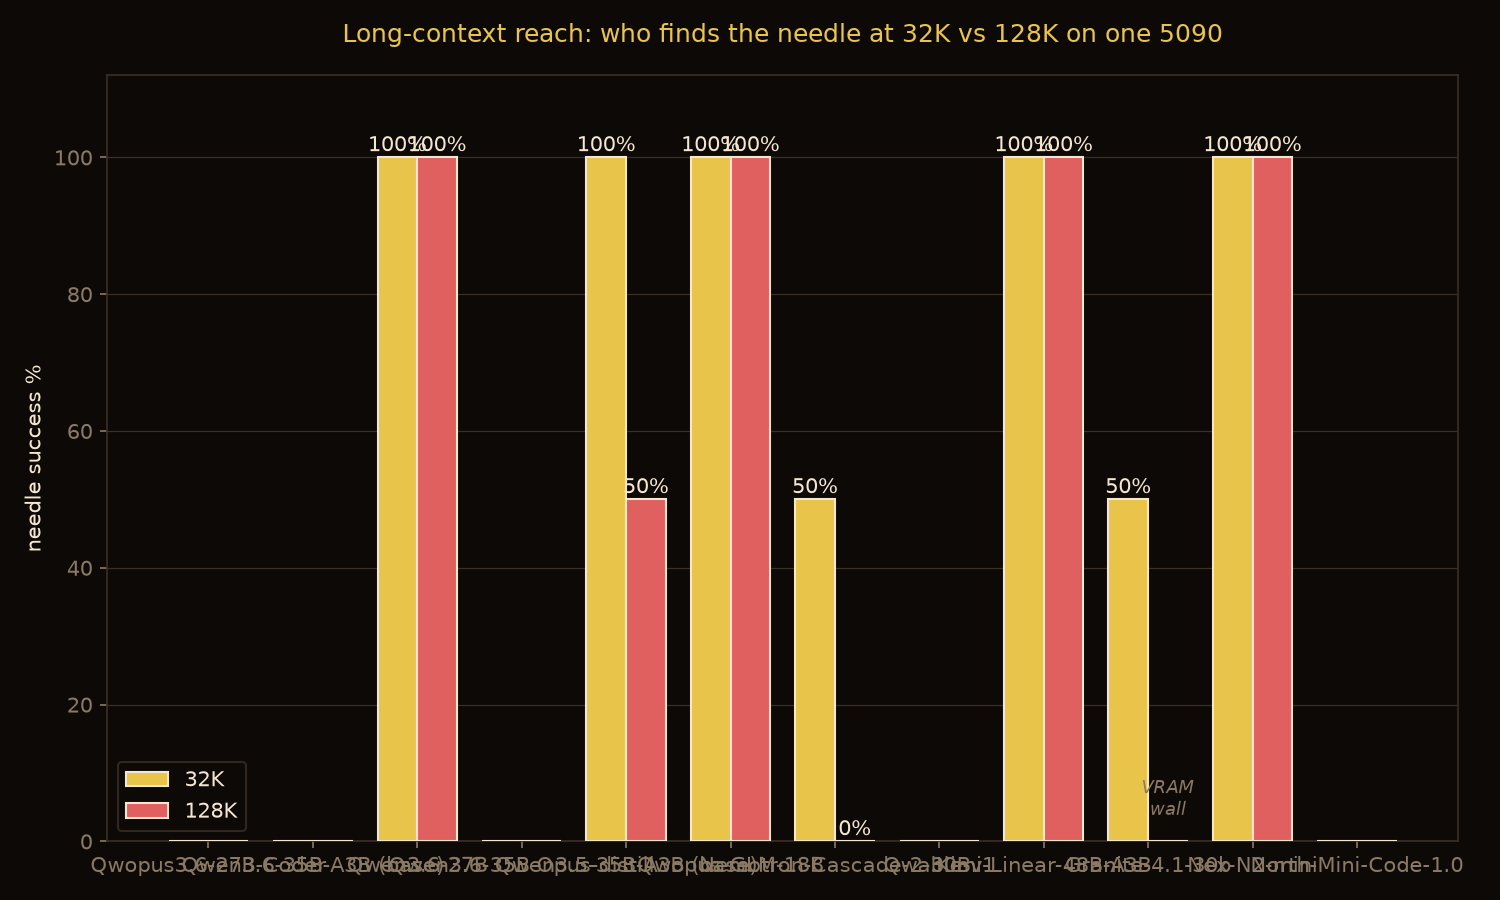
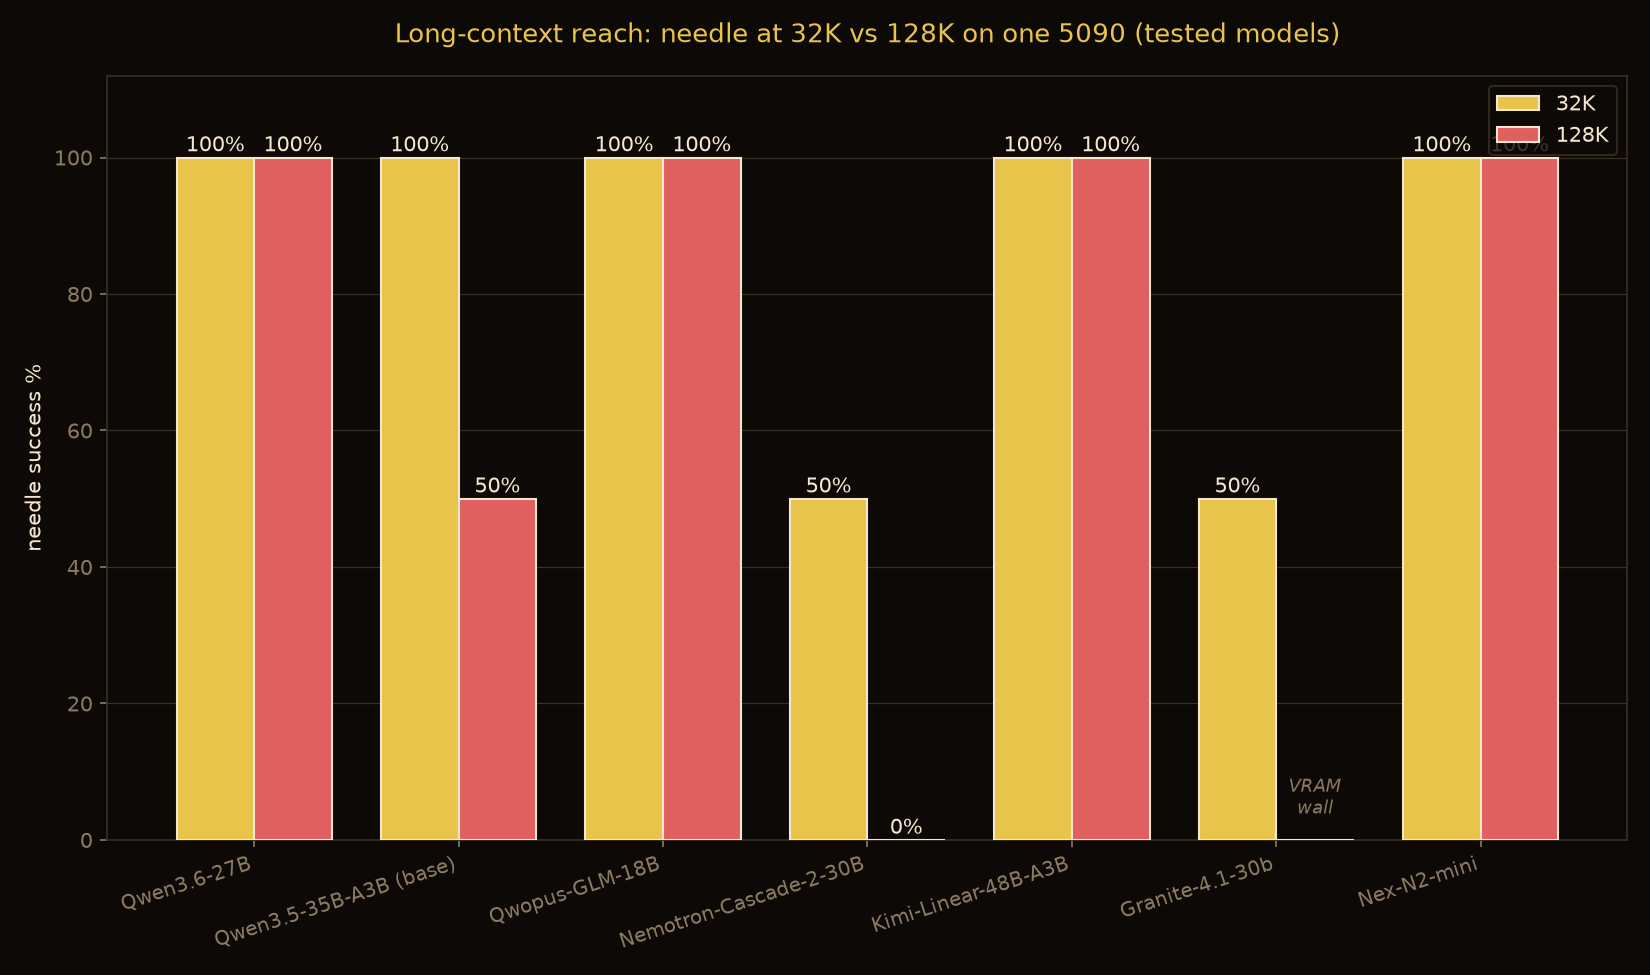
agentic board charts: fix 12-model legibility (horizontal score bars, staggered frontier labels, filtered long-ctx)

diff --git a/scripts/chart_agentic_leaderboard.py b/scripts/chart_agentic_leaderboard.py
@@ -42,64 +42,67 @@ SHORT = {"qwen3-6-27b": "Qwen3.6-27B", "qwen3-5-35b-base": "Qwen3.5 base",
          "nex-n2-mini": "Nex-N2-mini", "qwopus3-6-27b-coder": "Qwopus-Coder",
          "north-mini-code": "North-Mini", "qwen3-6-35b-base": "Qwen3.6 base",
          "qwen3-6-35b-opus-distill": "Opus-distill", "qwable-v1": "Qwable-v1"}
-fig, ax = plt.subplots(figsize=(11, 6.5), facecolor=BG); ax.set_facecolor(BG)
+fig, ax = plt.subplots(figsize=(13.5, 8), facecolor=BG); ax.set_facecolor(BG)
 # sort by x (tokens) and alternate label up/down so x-adjacent points never collide
 by_x = sorted(MODELS, key=lambda m: D[m[0]]["tokens_per_task"])
+# 4-tier vertical stagger so clustered points (the dense high-success top) never collide
+TIERS = [16, -16, 34, -34]
 for rank, (slug, name, color) in enumerate(by_x):
     d = D[slug]
     x, y = d["tokens_per_task"], d["task_success_pct"]
-    ax.scatter([x], [y], s=260, color=color, edgecolor=TEXT, zorder=4, linewidth=1.2)
-    above = (rank % 2 == 0)
-    ax.annotate(f"{SHORT[slug]}  ({d['score']})", (x, y), color=TEXT, fontsize=9, ha="center",
-                va=("bottom" if above else "top"), xytext=(0, 12 if above else -12),
-                textcoords="offset points")
+    ax.scatter([x], [y], s=200, color=color, edgecolor=TEXT, zorder=4, linewidth=1.2)
+    dy = TIERS[rank % 4]
+    ax.annotate(f"{SHORT[slug]} ({d['score']})", (x, y), color=TEXT, fontsize=8.5, ha="center",
+                va=("bottom" if dy > 0 else "top"), xytext=(0, dy), textcoords="offset points")
 ax.set_xlabel("tokens / task  (lower = leaner)", color=TEXT)
 ax.set_ylabel("task success %  (36-task hardened suite)", color=TEXT)
-ax.set_xlim(20, 370); ax.set_ylim(76, 106)
-ax.set_title("Hardened agentic suite: efficiency and robustness pull apart", color=GOLD, pad=16, fontsize=12.5)
+ax.set_xlim(20, 400); ax.set_ylim(74, 108)
+ax.set_title("Hardened agentic suite: efficiency and robustness pull apart", color=GOLD, pad=16, fontsize=13)
 for s in ax.spines.values(): s.set_color(GRID)
 ax.tick_params(colors=MUTE); ax.grid(True, color=GRID, linewidth=0.6, zorder=0)
 fig.tight_layout(); fig.savefig("reports/agentic-leaderboard-frontier.png", dpi=150, facecolor=BG)
 print("wrote reports/agentic-leaderboard-frontier.png")
 
-# --- Chart 2: Agentic Score bars ---
-fig, ax = plt.subplots(figsize=(10, 6), facecolor=BG); ax.set_facecolor(BG)
-order = sorted(MODELS, key=lambda m: D[m[0]]["score"], reverse=True)
-xs = np.arange(len(order))
-ax.bar(xs, [D[s]["score"] for s, _, _ in order], 0.6, color=[c for _, _, c in order], edgecolor=TEXT, zorder=3)
+# --- Chart 2: Agentic Score — HORIZONTAL bars (legible with 12 models, no label overlap) ---
+fig, ax = plt.subplots(figsize=(11.5, 8), facecolor=BG); ax.set_facecolor(BG)
+order = sorted(MODELS, key=lambda m: D[m[0]]["score"])  # ascending -> highest at top in barh
+ys = np.arange(len(order))
+ax.barh(ys, [D[s]["score"] for s, _, _ in order], 0.66, color=[c for _, _, c in order], edgecolor=TEXT, zorder=3)
 for i, (s, name, c) in enumerate(order):
     d = D[s]
-    ax.annotate(f"{d['score']}", (i, d["score"]), color=TEXT, ha="center", fontsize=13, fontweight="bold",
-                xytext=(0, 14), textcoords="offset points")
-    ax.annotate(f"{d['task_success_pct']:.0f}% · {d['tokens_per_task']:.0f} tok",
-                (i, d["score"]), color=MUTE, ha="center", fontsize=9, xytext=(0, 2), textcoords="offset points")
-ax.set_xticks(xs); ax.set_xticklabels([n for _, n, _ in order], color=TEXT, fontsize=10)
-ax.set_ylabel("Agentic Score (0-100)", color=TEXT); ax.set_ylim(0, 112)
-ax.set_title("Agentic Score — hardened native tool-calling suite, one RTX 5090", color=GOLD, pad=16)
+    ax.annotate(f"{d['score']}", (d["score"], i), color=TEXT, va="center", ha="left", fontsize=11,
+                fontweight="bold", xytext=(5, 0), textcoords="offset points")
+    ax.annotate(f"{d['task_success_pct']:.0f}% succ · {d['tokens_per_task']:.0f} tok/task",
+                (d["score"], i), color=MUTE, va="center", ha="left", fontsize=8.5,
+                xytext=(46, 0), textcoords="offset points")
+ax.set_yticks(ys); ax.set_yticklabels([n for _, n, _ in order], color=TEXT, fontsize=10.5)
+ax.set_xlabel("Agentic Score (0-100)", color=TEXT); ax.set_xlim(0, 132)
+ax.set_title("Agentic Score — hardened native tool-calling suite, one RTX 5090", color=GOLD, pad=14, fontsize=13)
 for s in ax.spines.values(): s.set_color(GRID)
-ax.tick_params(colors=MUTE); ax.grid(True, axis="y", color=GRID, linewidth=0.6, zorder=0)
+ax.tick_params(colors=MUTE); ax.grid(True, axis="x", color=GRID, linewidth=0.6, zorder=0)
 fig.tight_layout(); fig.savefig("reports/agentic-leaderboard-score.png", dpi=150, facecolor=BG)
 print("wrote reports/agentic-leaderboard-score.png")
 
-# --- Chart 3: long-context reach (needle success at 32K vs 128K) ---
-fig, ax = plt.subplots(figsize=(10, 6), facecolor=BG); ax.set_facecolor(BG)
-xs = np.arange(len(MODELS)); w = 0.38
-v32 = [lc(s, "32k") for s, _, _ in MODELS]
-v128 = [lc(s, "128k") for s, _, _ in MODELS]
+# --- Chart 3: long-context reach — only models that have long-context data ---
+LC = [(s, n, c) for s, n, c in MODELS if lc(s, "32k") is not None or lc(s, "128k") is not None]
+fig, ax = plt.subplots(figsize=(11, 6.5), facecolor=BG); ax.set_facecolor(BG)
+xs = np.arange(len(LC)); w = 0.38
+v32 = [lc(s, "32k") for s, _, _ in LC]
+v128 = [lc(s, "128k") for s, _, _ in LC]
 ax.bar(xs - w/2, [0 if v == "wall" or v is None else v for v in v32], w, color=GOLD, edgecolor=TEXT, zorder=3, label="32K")
 ax.bar(xs + w/2, [0 if v == "wall" or v is None else v for v in v128], w, color=CRIMSON, edgecolor=TEXT, zorder=3, label="128K")
 for i, (v, off) in enumerate([(v, -w/2) for v in v32] + [(v, w/2) for v in v128]):
-    mi = i % len(MODELS)
-    val = (v32 if i < len(MODELS) else v128)[mi]
+    mi = i % len(LC)
+    val = (v32 if i < len(LC) else v128)[mi]
     if val == "wall":
         ax.annotate("VRAM\nwall", (mi + off, 3), color=MUTE, ha="center", va="bottom", fontsize=8.5, style="italic")
     elif val is not None:
         ax.annotate(f"{val:.0f}%", (mi + off, val), color=TEXT, ha="center", fontsize=10, xytext=(0, 3), textcoords="offset points")
-ax.set_xticks(xs); ax.set_xticklabels([n for _, n, _ in MODELS], color=TEXT, fontsize=10)
+ax.set_xticks(xs); ax.set_xticklabels([n for _, n, _ in LC], color=TEXT, fontsize=9.5, rotation=18, ha="right")
 ax.set_ylabel("needle success %", color=TEXT); ax.set_ylim(0, 112)
-ax.set_title("Long-context reach: who finds the needle at 32K vs 128K on one 5090", color=GOLD, pad=16)
+ax.set_title("Long-context reach: needle at 32K vs 128K on one 5090 (tested models)", color=GOLD, pad=16, fontsize=12.5)
 for s in ax.spines.values(): s.set_color(GRID)
 ax.tick_params(colors=MUTE); ax.grid(True, axis="y", color=GRID, linewidth=0.6, zorder=0)
-ax.legend(facecolor=BG, edgecolor=GRID, labelcolor=TEXT, loc="lower left")
+ax.legend(facecolor=BG, edgecolor=GRID, labelcolor=TEXT, loc="upper right")
 fig.tight_layout(); fig.savefig("reports/agentic-leaderboard-longctx.png", dpi=150, facecolor=BG)
 print("wrote reports/agentic-leaderboard-longctx.png")
